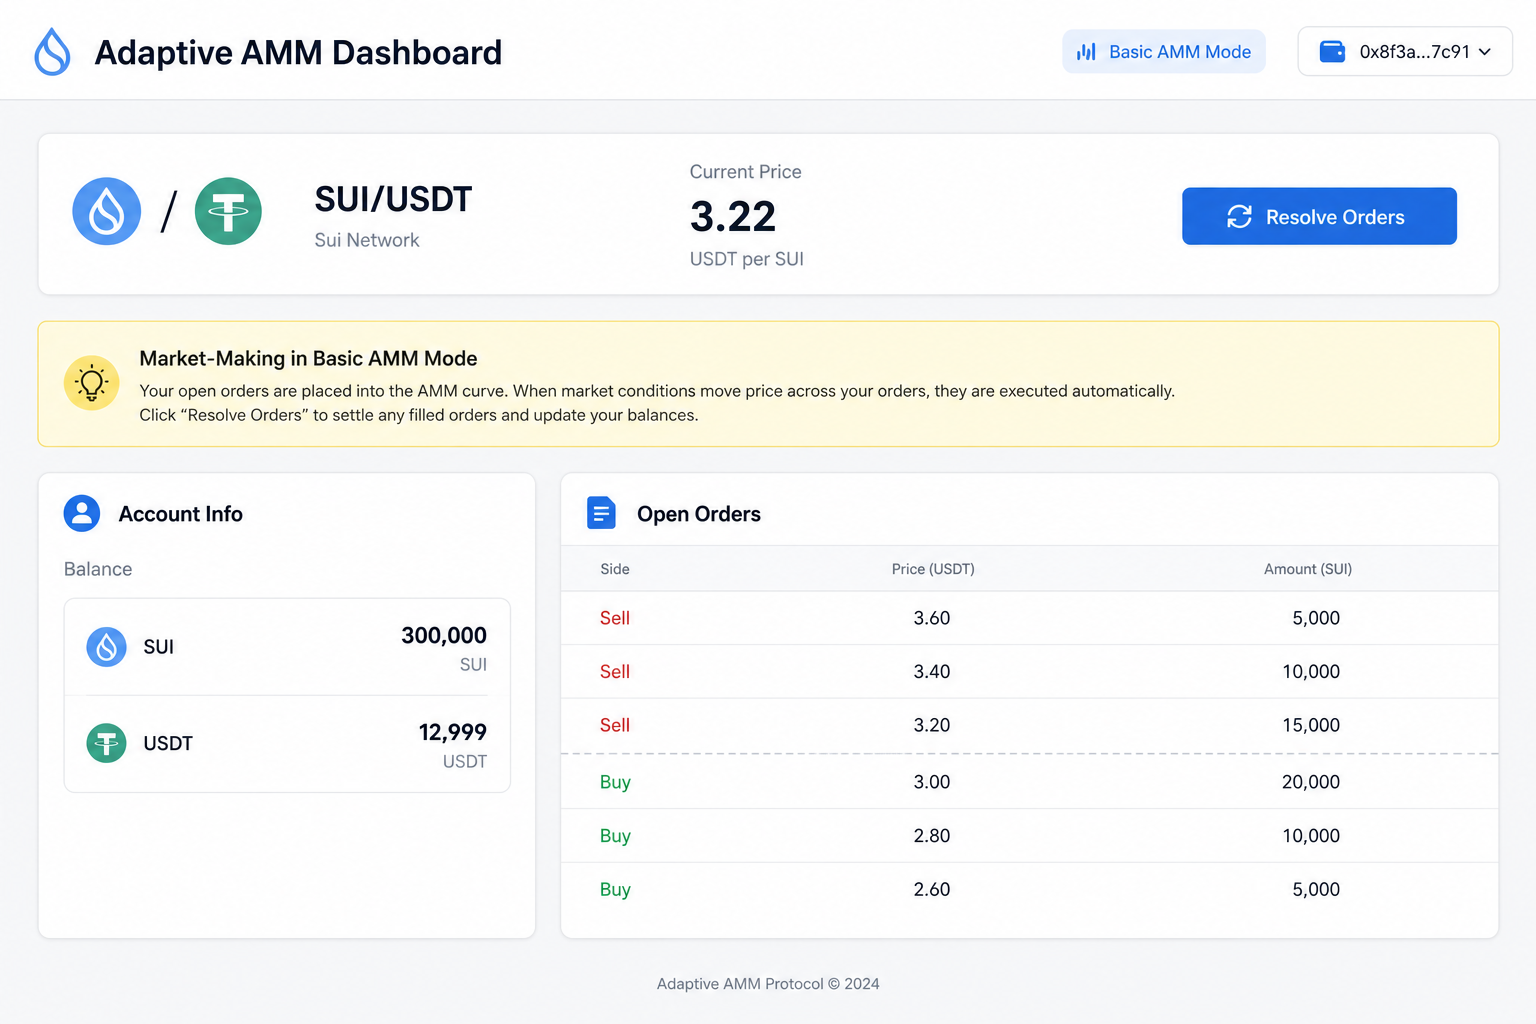
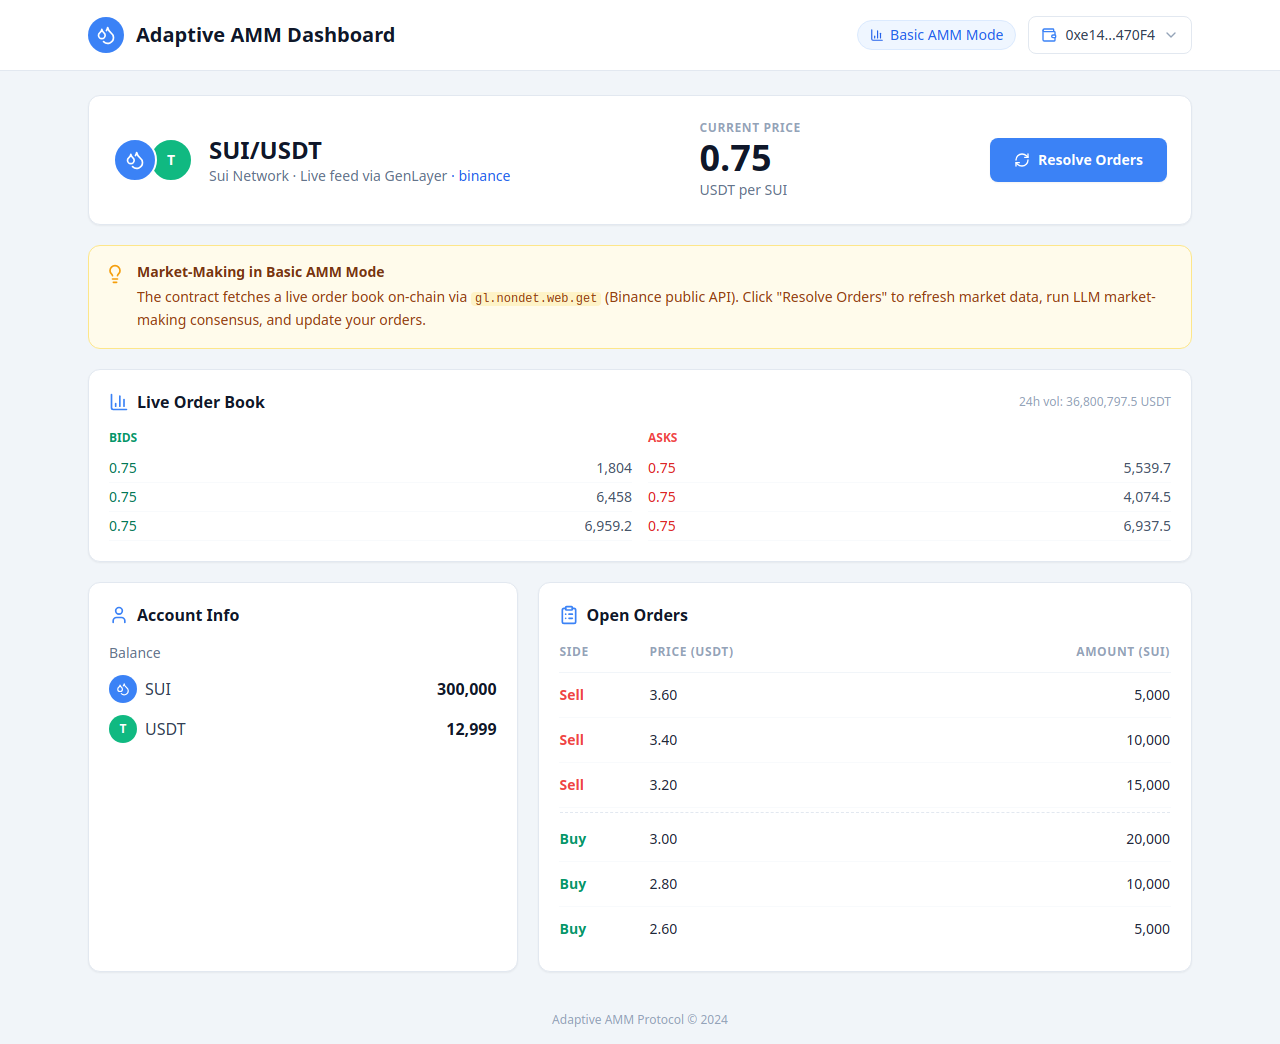
feat: production-ready GenLayer AMM with Ollama, live data, and Vue dashboard Transform adaptive-amm-genlayer into a reference DeFi/GenLayer prototype. Contract & data - Migrate amm_adaptative.py to modern GenLayer API (gl.nondet.web.get,   run_nondet_unsafe, exec_prompt, DynArray) - Live Binance or

diff --git a/app/src/logic/AdaptiveAMM.js b/app/src/logic/AdaptiveAMM.js
@@ -1,17 +1,24 @@
 import { createClient } from "genlayer-js";
 import { localnet } from "genlayer-js/chains";
 import { ExecutionResult, TransactionStatus } from "genlayer-js/types";
+import {
+  fetchBinanceMarket,
+  getDemoMarketSnapshot,
+} from "./demoMarketData.js";
 
 const READ_OPTS = { stateStatus: "accepted" };
+const DEMO_MODE = import.meta.env.VITE_DEMO_MODE === "true";
 
 class AdaptiveAMM {
   contractAddress;
   client;
   account;
+  demoState;
 
   constructor(contractAddress, account = null) {
     this.contractAddress = contractAddress;
     this.account = account;
+    this.demoState = getDemoMarketSnapshot();
     this.client = createClient({
       chain: localnet,
       ...(account ? { account } : {}),
@@ -24,6 +31,26 @@ class AdaptiveAMM {
   }
 
   async read(functionName, args = []) {
+    if (DEMO_MODE) {
+      const map = {
+        get_symbol: () => this.demoState.symbol,
+        get_data_source: () => this.demoState.dataSource,
+        get_current_price: () => this.demoState.currentPrice,
+        get_volume: () => this.demoState.volume,
+        get_order_book: () => this.demoState.orderBook,
+        get_open_orders: () => this.demoState.openOrders,
+        get_balance: () => this.demoState.balance,
+        get_resolve_response: () => ({
+          cancel_orders: [],
+          new_orders: [],
+          reason_decision:
+            "Demo mode: connect a deployed contract to run live resolve().",
+        }),
+      };
+      if (map[functionName]) return map[functionName]();
+      throw new Error(`Unknown read method: ${functionName}`);
+    }
+
     return this.client.readContract({
       address: this.contractAddress,
       functionName,
@@ -33,6 +60,21 @@ class AdaptiveAMM {
   }
 
   async write(functionName, args = []) {
+    if (DEMO_MODE) {
+      if (functionName === "refresh_market_data") {
+        const live = await fetchBinanceMarket("SUIUSDT");
+        this.demoState = { ...this.demoState, ...live };
+        return { txExecutionResultName: ExecutionResult.FINISHED_WITH_RETURN };
+      }
+      if (functionName === "resolve") {
+        await this.write("refresh_market_data");
+        this.demoState.reasonDecision =
+          "Demo mode preview — deploy the contract for on-chain LLM resolve.";
+        return { txExecutionResultName: ExecutionResult.FINISHED_WITH_RETURN };
+      }
+      return { txExecutionResultName: ExecutionResult.FINISHED_WITH_RETURN };
+    }
+
     const txHash = await this.client.writeContract({
       account: this.account,
       address: this.contractAddress,

diff --git a/app/src/logic/demoMarketData.js b/app/src/logic/demoMarketData.js
@@ -1,0 +1,58 @@
+export const DEMO_OPEN_ORDERS = [
+  { id: 1, side: "sell", price: 3.6, amount: 5000 },
+  { id: 2, side: "sell", price: 3.4, amount: 10000 },
+  { id: 3, side: "sell", price: 3.2, amount: 15000 },
+  { id: 4, side: "buy", price: 3.0, amount: 20000 },
+  { id: 5, side: "buy", price: 2.8, amount: 10000 },
+  { id: 6, side: "buy", price: 2.6, amount: 5000 },
+];
+
+export const DEMO_BALANCE = { SUI: 300000, USDT: 12999 };
+
+export const DEMO_ORDER_BOOK = {
+  bids: [
+    [3.0, 20000],
+    [2.8, 10000],
+    [2.6, 5000],
+  ],
+  asks: [
+    [3.2, 15000],
+    [3.4, 10000],
+    [3.6, 5000],
+  ],
+};
+
+export function getDemoMarketSnapshot() {
+  return {
+    symbol: "SUI/USDT",
+    dataSource: "binance",
+    currentPrice: 3.22,
+    volume: 1000000,
+    orderBook: DEMO_ORDER_BOOK,
+    openOrders: DEMO_OPEN_ORDERS,
+    balance: DEMO_BALANCE,
+  };
+}
+
+export async function fetchBinanceMarket(exchangeSymbol = "SUIUSDT") {
+  const [depthRes, tickerRes] = await Promise.all([
+    fetch(`https://api.binance.com/api/v3/depth?symbol=${exchangeSymbol}&limit=5`),
+    fetch(`https://api.binance.com/api/v3/ticker/24hr?symbol=${exchangeSymbol}`),
+  ]);
+
+  if (!depthRes.ok || !tickerRes.ok) {
+    throw new Error("Failed to fetch Binance market data");
+  }
+
+  const depth = await depthRes.json();
+  const ticker = await tickerRes.json();
+
+  return {
+    orderBook: {
+      bids: depth.bids.slice(0, 3).map(([price, qty]) => [parseFloat(price), parseFloat(qty)]),
+      asks: depth.asks.slice(0, 3).map(([price, qty]) => [parseFloat(price), parseFloat(qty)]),
+    },
+    currentPrice: parseFloat(ticker.lastPrice),
+    volume: parseFloat(ticker.volume),
+  };
+}
